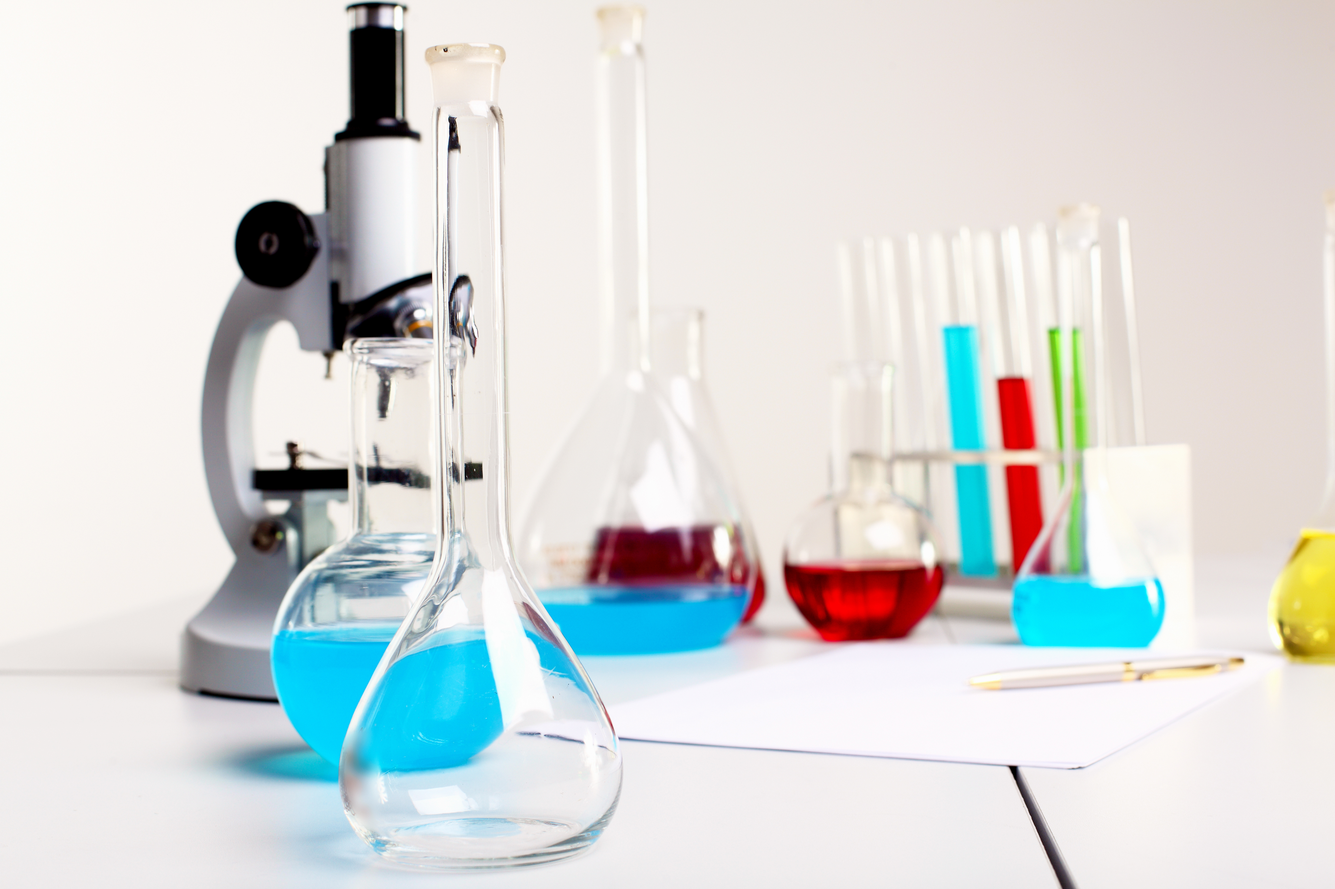
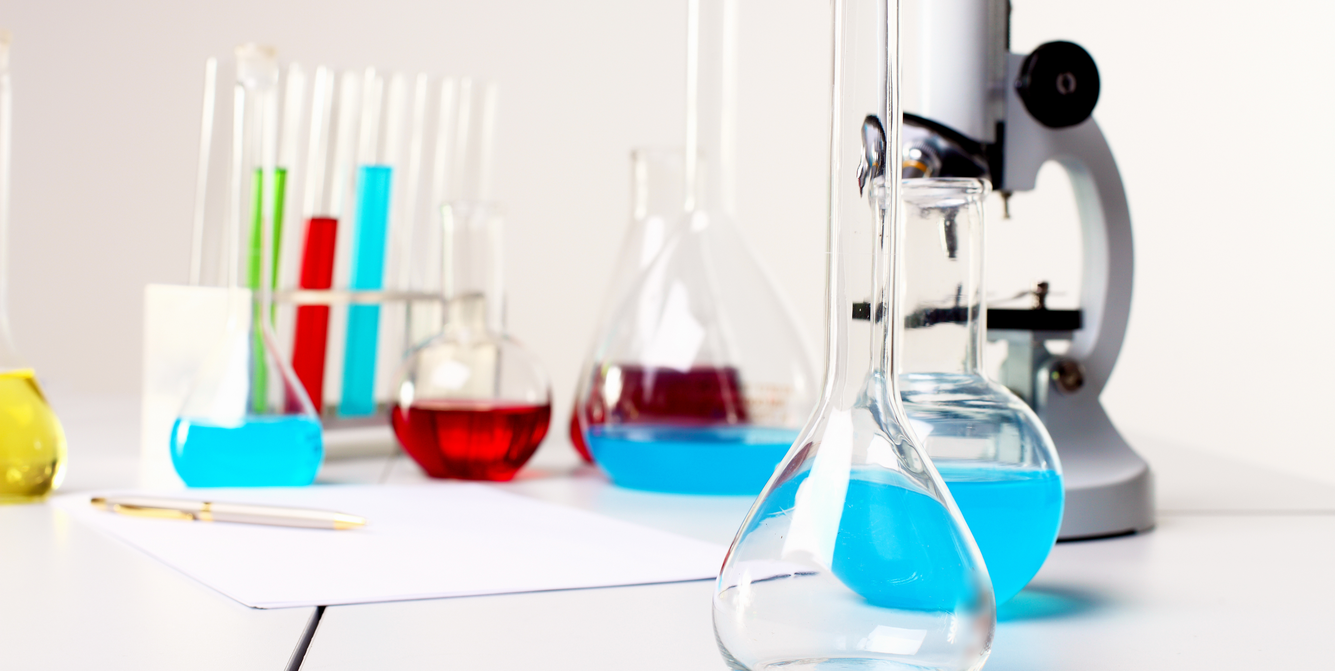
change images, add all sections page

diff --git a/index.html b/index.html
@@ -46,7 +46,107 @@
         		</div>
         	</div>
         </nav>
-        
+        <section>
+        	<h1>¿Quienes Somos?</h1>
+        	<img src="images/laboratorio-clinico.jpg" alt="" class="responsive-img">
+        	<div class="description">
+        		Zeus consultores fue creada con el propósito de brindar a los laboratorios de ensayo, de aguas, de
+				alimentos, clínicos y de calibración todas las herramientas necesarias para poder mejorar su 
+				condición competitiva, optimizar la calidad de sus procesos y productos y acreditarse frente al 
+				Organismos de Acreditación en Colombia –ONAC e Instituto de Hidrología, Meteorología y 
+				Estudios Ambientales  - IDEAM; demostrando la competencia técnica que le permita ofrecer y 
+				atender con mayor efectividad sus servicios.
+        	</div>
+        	<div class="separator"></div>
+        </section>
+        <section class="blue">
+        	<h1>¿Que Hacemos?</h1>
+        	<img src="images/depositos.jpg" alt="" class="responsive-img">
+        	<div class="description">
+        		Zeus consultores realiza consultorías y asesoría técnica en diferentes temas relacionados con laboratorios:<br><br>
+
+				•Aseguramiento de calidad de resultados, manejo y análisis de técnicas estadísticas.<br>
+				•Aseguramiento metrológico basado en 10012, revisión de los aspectos técnicos metrológicos 
+				asociados a los métodos de medición.<br>
+				•Asesorías en ensayos de aptitud y análisis de resultados.<br>
+				•Implementación sistemas de gestión ISO/IEC 17025 para laboratorios de ensayo y calibración, 
+				NTC-ISO 15189 para laboratorios clínicos.<br>
+				• Fortalecimiento de competencia técnica del personal de los laboratorios con capacitaciones en
+				temas  específicos acorde a sus necesidades.<br>
+				• Implementación del Sistema de aseguramiento de calidad de las mediciones.<br>
+				• Evaluación de métodos de ensayo,  Soporte en confirmación de métodos, Incertidumbre de las
+				mediciones.<br>
+				• Análisis físicoquímicos y microbiológicos de aguas.<br>
+				• Auditorías Internas de calidad y técnicas bajo la normatividad aplicable.<br>
+        	</div>
+        	<div class="separator"></div>
+        </section>
+        <section>
+        	<h1>Nuestra Experiencia</h1>
+        	<img src="images/laboratorio.png" alt="" class="responsive-img">
+        	<div class="description">
+        		Zeus consultores cuenta con la experiencia y entrenamiento en Institutos de Metrología 
+				Nacionales e Internacionales.<br>
+				·Experiencia en auditorías internas y externas con organismos certificadores y acreditadores a 
+				nivel Nacional.<br>
+				·Consultoría en acreditación del laboratorio de Aguas de Buga S.A. E.S.P.<br>
+				·Auditoría interna como experto técnico en Aguas Capital de Cúcuta S.A. E.S.P.<br>
+				·Implementación del SGC 17025:2005 y responsable técnico del laboratorio de metrología del 
+				SENA Caldas.<br>
+				·Implementación de sistemas de aseguramiento metrológico.<br>
+				·Planeación, coordinación y ejecución de análisis fisicoquímico y microbiológico de aguas. Director 
+				técnico de laboratorio en  Aguas de Manizales.
+        	</div>
+        	<div class="separator"></div>
+        </section>
+        <section class="blue">
+        	<h1>Beneficios de los<br>servicios soportados</h1>
+        	<img src="images/politicas.jpg" alt="" class="responsive-img">
+        	<div class="description">
+        		•Identificar las necesidades de los laboratorios y fortalecer aquellos aspectos que afecten 
+				directamente el logro de la acreditación.<br>
+				•Brindar soluciones específicas a problemas internos del laboratorio mediante metodologías de 
+				trabajo prácticas y orientadas a resultados.<br>
+				•Mejorar la competencia técnica del personal del laboratorio con las capacitaciones y 
+				transferencia de conocimientos.<br>
+				•Apoyar en la implementación de la estructura del sistema de gestión del laboratorio y le permita 
+				alcanzar la acreditación frente al organismo acreditdor.<br>
+				•Experiencia de los consultores en temas específicos de laboratorios, la cual le ayuda a alcanzar 
+				mayor competitividad dentro de la industria o sector en donde se desenvuelve.<br>
+				•Disminuir costos operativos por contratación directa.
+        	</div>
+        	<div class="separator"></div>
+        </section>
+        <section>
+        	<h1>Ventajas de Utilizar<br>Nuestros Servicios</h1>
+        	<img src="images/fotoadmin.jpg" alt="" class="responsive-img">
+        	<div class="description">
+        		•Cumplimiento con honradez, responsabilidad y confidencialidad a las necesidades de los clientes.<br>
+				•Manejo de una excelente imagen profesional.<br>
+				•Apoyo de un equipo interdisciplinario especializado en diferentes áreas de laboratorios.<br>
+				•Apoyo a los laboratorios con conocimientos para que mejoren su rentabilidad y competencia.<br>
+				•Garantía en la mejora de los procesos de los laboratorios.<br>
+				•Paquete de servicios adecuados a sus necesidades.<br>
+				•Acompañamiento  y asesoría permanente durante el proceso.
+        	</div>
+        	<div class="separator"></div>
+        </section>
+        <footer>
+        	<span class="networkings">
+        		<a href="#"><i class="fa fa-facebook-f"></i></a> &nbsp; 
+        		<a href="#"><i class="fa fa-twitter"></i></a> &nbsp; 
+        		<a href="#"><i class="fa fa-instagram"></i></a>
+        	</span>
+        	<br>
+        	<br>
+        	<span>
+        		Cel <a href="tel: +57 3137085871">3137085871</a> - Dirección: Calle 68A # 9-100 of.14 - Email: <a href="mailto: sandra.zuluaga@zusconsultores.com">Sandra.zuluaga@zusconsultores.com</a>
+        	</span>
+        	<br>
+        	<span>
+        		<a href="http://zeusconsultores.com">www.zeusconsultores.com</a>
+        	</span>
+        </footer>
 		<!-- Libraries JavaScript  -->
 		<script type="text/javascript" src="js/jquery-1.12.0.min.js"></script>
 		<script type="text/javascript" src="js/library.js"></script>

diff --git a/stylesheets/main.css b/stylesheets/main.css
@@ -3242,7 +3242,9 @@ nav {
     color: white; }
   nav h4 {
     display: inline;
-    font-size: 20px; }
+    font-size: 24px;
+    font-family: 'Myriad Pro Condensed';
+    font-weight: 100; }
   nav .container_contact {
     float: right;
     cursor: pointer; }
@@ -3328,6 +3330,8 @@ nav {
       vertical-align: bottom;
       top: 14px;
       left: 18px;
+      font-family: 'Myriad Pro Condensed';
+      text-transform: uppercase;
       -webkit-border-radius: 3px;
       -khtml-border-radius: 3px;
       -moz-border-radius: 3px;
@@ -3340,5 +3344,88 @@ nav {
       -ms-transition: all 0.5s ease;
       -o-transition: all 0.5s ease;
       transition: all 0.5s ease; }
+
+section {
+  position: relative;
+  background-color: rgba(130, 130, 130, 0.7);
+  background-size: 10px 10px;
+  background-position: 0 0, 5px 5px;
+  background-image: linear-gradient(45deg, rgba(0, 0, 0, 0.1) 25%, transparent 25%, transparent 75%, rgba(0, 0, 0, 0.1) 75%, rgba(0, 0, 0, 0.1)), linear-gradient(45deg, rgba(0, 0, 0, 0.1) 25%, transparent 25%, transparent 75%, rgba(0, 0, 0, 0.1) 75%, rgba(0, 0, 0, 0.1));
+  background-image: -webkit-linear-gradient(45deg, rgba(0, 0, 0, 0.1) 25%, transparent 25%, transparent 75%, rgba(0, 0, 0, 0.1) 75%, rgba(0, 0, 0, 0.1)), linear-gradient(45deg, rgba(0, 0, 0, 0.1) 25%, transparent 25%, transparent 75%, rgba(0, 0, 0, 0.1) 75%, rgba(0, 0, 0, 0.1));
+  background-image: -moz-linear-gradient(45deg, rgba(0, 0, 0, 0.1) 25%, transparent 25%, transparent 75%, rgba(0, 0, 0, 0.1) 75%, rgba(0, 0, 0, 0.1)), linear-gradient(45deg, rgba(0, 0, 0, 0.1) 25%, transparent 25%, transparent 75%, rgba(0, 0, 0, 0.1) 75%, rgba(0, 0, 0, 0.1));
+  background-image: -o-linear-gradient(45deg, rgba(0, 0, 0, 0.1) 25%, transparent 25%, transparent 75%, rgba(0, 0, 0, 0.1) 75%, rgba(0, 0, 0, 0.1)), linear-gradient(45deg, rgba(0, 0, 0, 0.1) 25%, transparent 25%, transparent 75%, rgba(0, 0, 0, 0.1) 75%, rgba(0, 0, 0, 0.1)); }
+  section h1 {
+    text-align: center;
+    font-family: 'Myriad Pro Condensed';
+    text-transform: uppercase;
+    font-size: 40px;
+    color: white;
+    background: rgba(130, 130, 130, 0.7);
+    padding: 1.8rem 0 0;
+    position: absolute;
+    top: 0;
+    left: 0;
+    font-weight: 100;
+    width: 100%; }
+    section h1:before {
+      content: '';
+      position: absolute;
+      border: solid rgba(130, 130, 130, 0.7);
+      border-width: 40px 47vw 0 50vw;
+      border-color: rgba(130, 130, 130, 0.7) transparent transparent transparent;
+      top: 100%;
+      left: 0; }
+  section img {
+    width: 100%; }
+  section .description {
+    position: absolute;
+    bottom: 8rem;
+    right: 1.5rem;
+    background: rgba(255, 255, 255, 0.7);
+    color: #005CAA;
+    padding: .8rem;
+    text-align: justify;
+    max-width: 100%;
+    width: 600px;
+    font-family: 'Myriad Pro Condensed';
+    font-size: 20px;
+    -webkit-border-radius: 2px;
+    -khtml-border-radius: 2px;
+    -moz-border-radius: 2px;
+    -ms-border-radius: 2px;
+    -o-border-radius: 2px;
+    border-radius: 2px; }
+  section .separator {
+    min-height: 100px; }
+  section.blue {
+    background-color: rgba(0, 92, 170, 0.8) !important; }
+    section.blue h1 {
+      background: rgba(0, 92, 170, 0.8); }
+      section.blue h1:before {
+        border-top-color: rgba(0, 92, 170, 0.8); }
+    section.blue .description {
+      right: inherit;
+      left: 1.5rem; }
+
+footer {
+  padding: 3rem;
+  text-align: center; }
+  footer .networkings a:first-child i {
+    padding: .5rem .65rem; }
+  footer .networkings i {
+    display: inline-block;
+    padding: .5rem;
+    background: #00B1EB;
+    color: white;
+    -webkit-border-radius: 2px;
+    -khtml-border-radius: 2px;
+    -moz-border-radius: 2px;
+    -ms-border-radius: 2px;
+    -o-border-radius: 2px;
+    border-radius: 2px; }
+  footer span:not(.networkings), footer a {
+    color: #005CAA;
+    font-size: 14px;
+    font-family: 'Myriad Pro Condensed'; }
 
 /*# sourceMappingURL=main.css.map */

diff --git a/sass/base.scss b/sass/base.scss
@@ -75,7 +75,9 @@ nav{
 	
 	h4{
 		display: inline;
-		font-size: 20px;
+		font-size: 24px;
+	    font-family: 'Myriad Pro Condensed';
+    	font-weight: 100;
 	}
 	
 	.container_contact{
@@ -157,9 +159,116 @@ nav{
 			vertical-align: bottom;
 		    top: 14px;
 	    	left: 18px;
+	    	font-family: 'Myriad Pro Condensed';
+    		text-transform: uppercase;
 			@include border-radius(3px);
 			@include transition(all .5s ease);
 		}
+	}
+}
+
+section{
+	position: relative;
+	background-color: rgba(130,130,130,.7);
+	background-size: 10px 10px;
+    background-position: 0 0, 5px 5px;
+    background-image: linear-gradient(45deg, rgba(0,0,0,.1) 25%, transparent 25%, transparent 75%, rgba(0,0,0,.1) 75%, rgba(0,0,0,.1)), linear-gradient(45deg, rgba(0,0,0,.1) 25%, transparent 25%, transparent 75%, rgba(0,0,0,.1) 75%, rgba(0,0,0,.1));
+    background-image: -webkit-linear-gradient(45deg, rgba(0,0,0,.1) 25%, transparent 25%, transparent 75%, rgba(0,0,0,.1) 75%, rgba(0,0,0,.1)), linear-gradient(45deg, rgba(0,0,0,.1) 25%, transparent 25%, transparent 75%, rgba(0,0,0,.1) 75%, rgba(0,0,0,.1));
+    background-image: -moz-linear-gradient(45deg, rgba(0,0,0,.1) 25%, transparent 25%, transparent 75%, rgba(0,0,0,.1) 75%, rgba(0,0,0,.1)), linear-gradient(45deg, rgba(0,0,0,.1) 25%, transparent 25%, transparent 75%, rgba(0,0,0,.1) 75%, rgba(0,0,0,.1));
+    background-image: -o-linear-gradient(45deg, rgba(0,0,0,.1) 25%, transparent 25%, transparent 75%, rgba(0,0,0,.1) 75%, rgba(0,0,0,.1)), linear-gradient(45deg, rgba(0,0,0,.1) 25%, transparent 25%, transparent 75%, rgba(0,0,0,.1) 75%, rgba(0,0,0,.1));
+	
+	h1{
+		text-align: center;
+		font-family: 'Myriad Pro Condensed';
+    	text-transform: uppercase;
+    	font-size: 40px;
+    	color: white;
+    	background: rgba(130,130,130,.7);
+    	padding: 1.8rem 0 0;
+    	position: absolute;
+    	top: 0;
+    	left: 0;
+    	font-weight: 100;
+    	width: 100%;
+    	
+    	&:before{
+    		content: '';
+    		position: absolute;
+    		border: solid rgba(130,130,130,.7);
+    		border-width: 40px (100vw / 2 - 3vw) 0 (100vw / 2);
+    		border-color: rgba(130, 130, 130, 0.7) transparent transparent transparent;
+    		top: 100%;
+    		left: 0;
+    	}
+	}
+	
+	img{
+		width: 100%;
+	}
+	
+	.description{
+		position: absolute;
+		bottom: (1.5rem + 6.5rem);
+		right: 1.5rem;
+		background: rgba(255,255,255,.7);
+		color: $darkblue_theme;
+		padding: .8rem;
+		text-align: justify;
+		max-width: 100%;
+		width: 600px;
+		font-family: 'Myriad Pro Condensed';
+		font-size: 20px;
+		@include border-radius(2px);
+	}
+	
+	.separator{
+		min-height: 100px;
+	}
+	
+	&.blue{
+		background-color: rgba(0,92,170,0.8)!important;
+		
+		h1{
+			background: rgba(0,92,170,0.8);
+			
+			&:before{
+				border-top-color: rgba(0,92,170,0.8);
+			}
+		}
+		
+		.description{
+			right: inherit;
+			left: 1.5rem;
+		}
+	}
+}
+
+footer{
+	padding: 3rem;
+	text-align: center;
+	
+	.networkings{
+		a{
+			&:first-child{
+				i{
+					padding: .5rem .65rem;
+				}
+			}
+		}
+		
+		i{
+			display: inline-block;
+			padding: .5rem;
+			background: $blue_theme;
+			color: white;
+			@include border-radius(2px);
+		}
+	}
+	
+	span:not(.networkings),a{
+		color: $darkblue_theme;
+		font-size: 14px;
+		font-family: 'Myriad Pro Condensed';
 	}
 }
 
